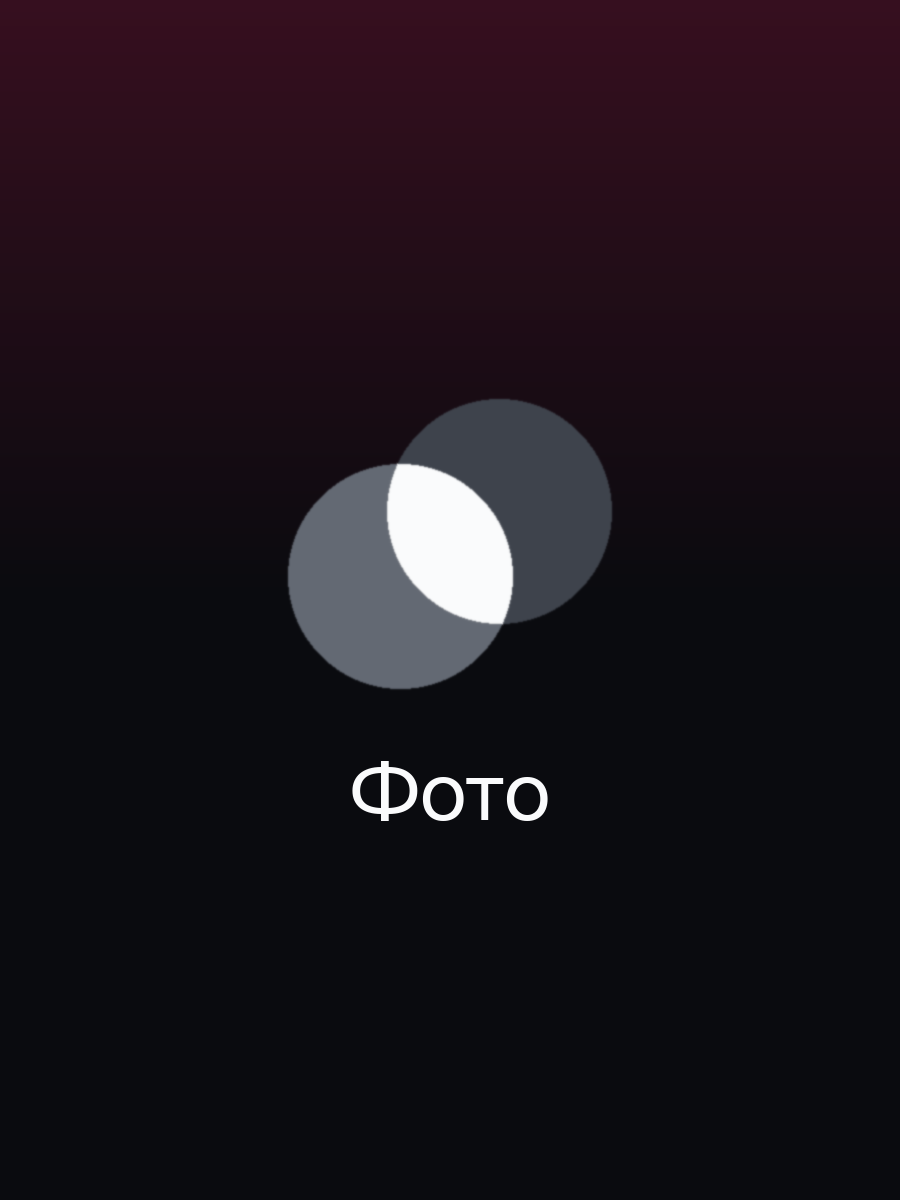
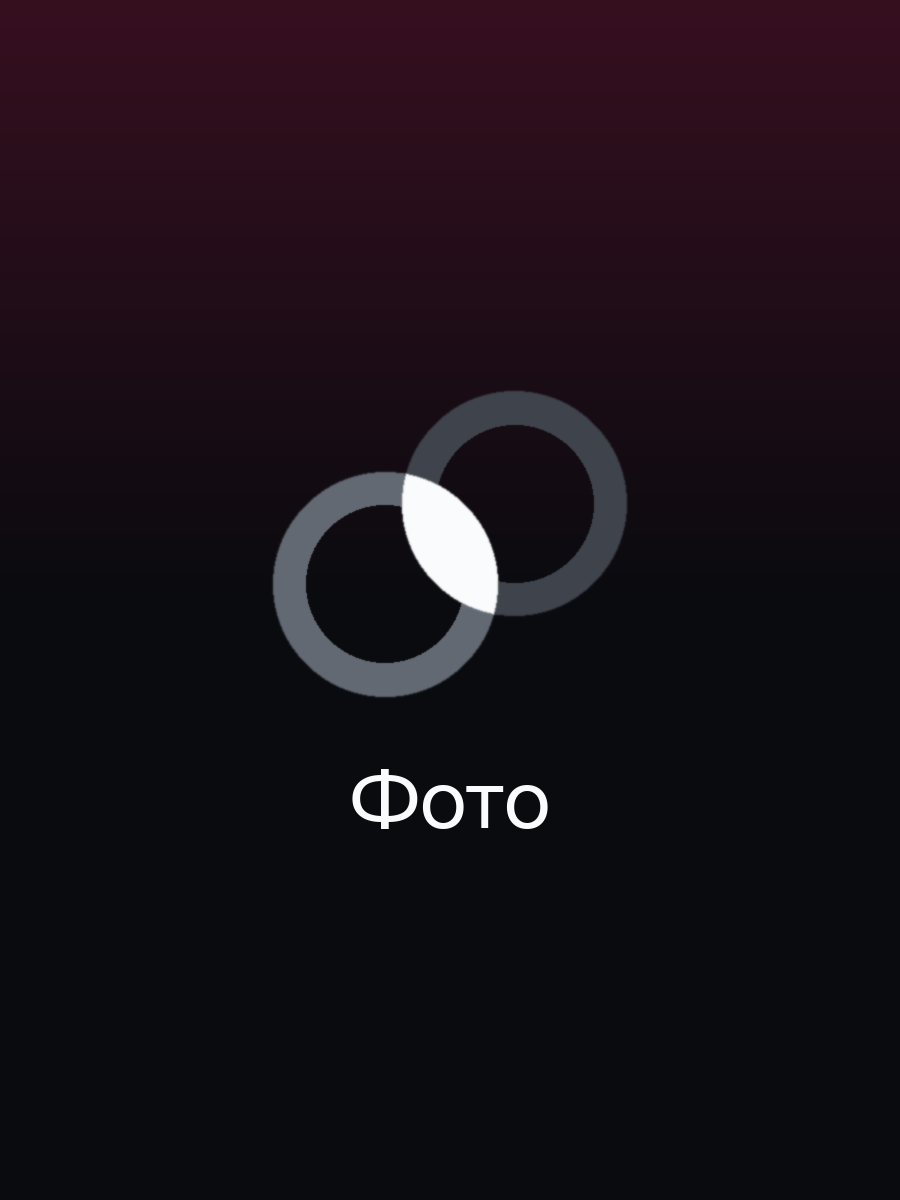
feat(brand): sharpen mark — aura rings + lens, not filled Venn
Replace soft filled disks with crisp ring strokes and a controlled white
intersection lens so the mark reads as match/aura, not PowerPoint glow.

Changed region(s): [[0.28, 0.3083, 0.7156, 0.5858], [0.3733, 0.6167, 0.6222, 0.7092]]

diff --git a/web/src/components/BrandMark.tsx b/web/src/components/BrandMark.tsx
@@ -5,22 +5,23 @@ import { motion, useReducedMotion } from "framer-motion";
  * Знак марки: две ауры, в пересечении — свет.
  *
  * У каждого человека в продукте свой детерминированный цвет — аура
- * (lib/aura.ts). Знак строится из той же идеи: два круга-ауры разных
- * оттенков перекрываются, и место пересечения загорается. Мэтч — это
- * пересечение двух людей; у знака ровно этот смысл.
+ * (lib/aura.ts). Знак: два кольца-ауры сходятся, пересечение загорается.
+ * Кольца вместо залитых дисков — чтобы не читаться как Venn из слайда.
  *
  * Геометрия повторяет tools/brandmark.py (источник правды для PIL и
- * SVG-носителей): R = 25 при холсте 100, смещения центров ±11 / ∓7.15.
+ * SVG-носителей): R = 24 при холсте 100, смещения ±13.92 / ∓8.64,
+ * толщина кольца 0.30 R.
  *
- * `animated` — «дыхание»: круги медленно сходятся и расходятся, линза
+ * `animated` — «дыхание»: кольца медленно сходятся и расходятся, линза
  * пересечения растёт и тает. Уважает prefers-reduced-motion.
  */
 
-const R = 25;
-const DX = 11;
-const DY = 7.15;
-// Насколько круги сходятся в крайней точке дыхания
-const ШАГ = 3.2;
+const R = 24;
+const DX = 13.92; // 0.580 R
+const DY = 8.64; // 0.360 R
+const W = 7.2; // 0.30 R
+// Насколько кольца сходятся в крайней точке дыхания
+const ШАГ = 2.6;
 
 const A = { cx: 50 - DX, cy: 50 + DY };
 const B = { cx: 50 + DX, cy: 50 - DY };
@@ -52,10 +53,10 @@ export default function BrandMark({
   // круг внутри clipPath обязан двигаться синхронно с видимым — иначе
   // свет отстанет от пересечения.
   const ходА = дышит
-    ? { cx: [A.cx, A.cx + ШАГ], cy: [A.cy, A.cy - ШАГ * 0.65] }
+    ? { cx: [A.cx, A.cx + ШАГ], cy: [A.cy, A.cy - ШАГ * 0.62] }
     : undefined;
   const ходБ = дышит
-    ? { cx: [B.cx, B.cx - ШАГ], cy: [B.cy, B.cy + ШАГ * 0.65] }
+    ? { cx: [B.cx, B.cx - ШАГ], cy: [B.cy, B.cy + ШАГ * 0.62] }
     : undefined;
 
   return (
@@ -75,16 +76,20 @@ export default function BrandMark({
       <motion.circle
         cx={A.cx}
         cy={A.cy}
-        r={R}
-        fill="var(--color-accent)"
+        r={R - W / 2}
+        stroke="var(--color-accent)"
+        strokeWidth={W}
+        fill="none"
         animate={ходА}
         transition={переход}
       />
       <motion.circle
         cx={B.cx}
         cy={B.cy}
-        r={R}
-        fill="var(--color-mark-b)"
+        r={R - W / 2}
+        stroke="var(--color-mark-b)"
+        strokeWidth={W}
+        fill="none"
         animate={ходБ}
         transition={переход}
       />

diff --git a/tools/make_icons.py b/tools/make_icons.py
@@ -2,10 +2,10 @@
 """
 Генератор иконки, splash-экрана и favicon.
 
-Знак марки — «две ауры»: два перекрывающихся круга-ауры, пересечение
-загорается светом (см. tools/brandmark.py — там смысл и геометрия).
+Знак марки — «две ауры»: два кольца-ауры, пересечение загорается
+светом (см. tools/brandmark.py — там смысл и геометрия).
 Иконка — тёмный квадрат в цвете фона приложения со знаком по центру:
-на домашнем экране тёмная иконка с двумя цветными кругами различима
+на домашнем экране тёмная иконка с двумя цветными кольцами различима
 с расстояния и не похожа ни на пламя, ни на сердечки соседей по нише.
 
 Цвета берутся из дизайн-системы (web/src/styles/globals.css), чтобы
@@ -38,11 +38,11 @@ def make_icon(size: int = 1024) -> Image.Image:
     Углы не скругляем — iOS и Android накладывают собственную маску,
     а предварительное скругление дало бы двойную обводку.
 
-    Радиус круга 0.25 стороны: знак занимает ~72% ширины — достаточно
-    крупно для узнавания и с запасом до маски скругления.
+    Радиус круга 0.23 стороны: при габарите знака ≈ 3.16 R это ~73%
+    ширины — крупно для узнавания и с запасом до маски скругления.
     """
     img = Image.new("RGB", (size, size), BG)
-    нарисовать_знак(img, size * 0.5, size * 0.5, size * 0.25)
+    нарисовать_знак(img, size * 0.5, size * 0.5, size * 0.23)
     return img
 
 

diff --git a/tools/make_banners.py b/tools/make_banners.py
@@ -10,7 +10,7 @@
 Файлы кладём в `web/public/banners`, бот берёт их по SITE_URL — то есть со
 своего домена.
 
-Знак — «две ауры» из tools/brandmark.py: два пересекающихся круга-ауры,
+Знак — «две ауры» из tools/brandmark.py: два пересекающихся кольца-ауры,
 в пересечении свет. Геометрия импортируется, а не копируется, поэтому
 иконка на телефоне и баннер в боте — буквально одна форма.
 
@@ -87,16 +87,16 @@ def собрать() -> list[str]:
                 ),
             )
 
-        # Радиус круга знака: полная ширина знака ≈ 2.9 r (см. brandmark.py)
+        # Радиус круга знака: полная ширина знака ≈ 3.16 r (см. brandmark.py)
         r = max(24, min(ш, в) // 8)
         cy = в // 2 - (r // 2 if в > 320 else 0)
         нарисовать_знак(im, ш // 2, cy, r, приглушить=приглушить)
 
         f = _шрифт(max(28, min(ш, в) // 11))
         рамка = d.textbbox((0, 0), надпись, font=f)
-        # Нижняя кромка знака — cy + 1.29 r (нижний круг смещён вниз)
+        # Нижняя кромка знака — cy + 1.36 r (нижнее кольцо смещено вниз)
         d.text(
-            ((ш - (рамка[2] - рамка[0])) // 2, cy + int(r * 1.29) + max(18, в // 22)),
+            ((ш - (рамка[2] - рамка[0])) // 2, cy + int(r * 1.36) + max(18, в // 22)),
             надпись, font=f, fill=СВЕТЛЫЙ,
         )
 
